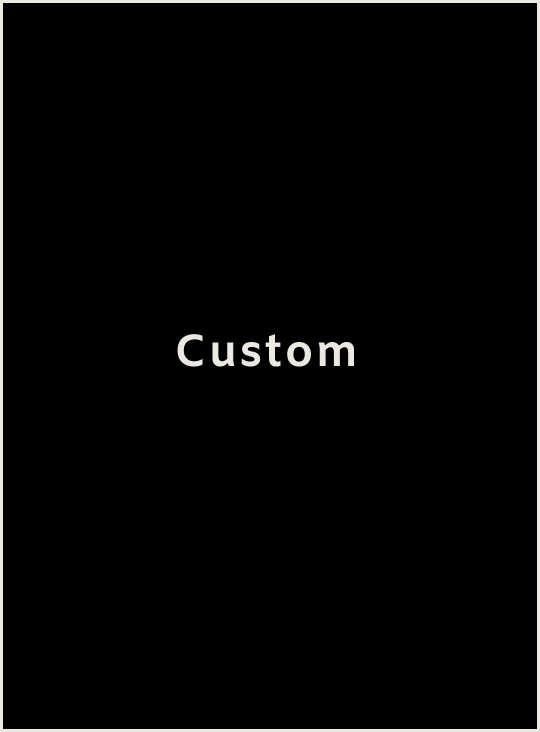
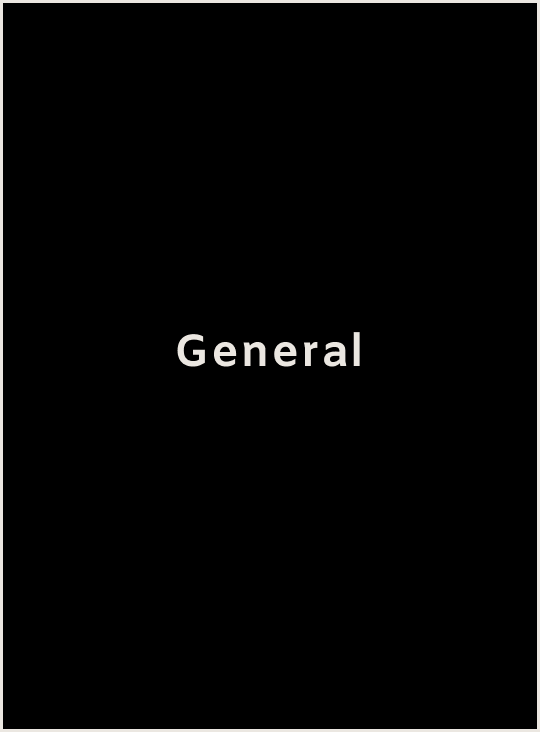
Css updates

Changed region(s): [[0.3556, 0.4508, 0.6815, 0.5109]]

diff --git a/client/src/components/NavBar/index.js b/client/src/components/NavBar/index.js
@@ -1,6 +1,7 @@
 import React, {useState} from 'react';
 import {Link, useNavigate} from 'react-router-dom';
 import dotdaylogo from '../../images/dotdaylogo.png';
+import dotdaydot from '../../images/dotdaydot.png';
 import './index.css';
 
 function NavBar({currentAuthor, setCurrentAuthor, setLogInForm, setErrorMessage}) {
@@ -39,7 +40,8 @@ function NavBar({currentAuthor, setCurrentAuthor, setLogInForm, setErrorMessage}
                     <Link className='navbarlink' to='/themes'>Themes</Link>
                     <img className='navbarlogologgedin' alt='.Day logo' src={dotdaylogo}></img>
                     <span className='navbardropdownspan'>
-                        <button className='navbarlink'>Hello, {currentAuthor.first_name}.</button>
+                        <img className='navbardotdaydot' src={dotdaydot}/>
+                        <button className='navbarnamelink'>Hello, {currentAuthor.first_name}.</button>
                         <div className='navbardropdown'>
                             <div className='dropdowndiv'>
                                 <Link className='dropdownlink' to={`/account`}>Account</Link>

diff --git a/client/src/components/EditEntry/index.js b/client/src/components/EditEntry/index.js
@@ -50,13 +50,13 @@ function EditEntry() {
                                     const answer = entry.answers.find((answer) => answer.question_id === question.id);
                                     return (<div className='entrydraftinputdiv' key={question.id}>
                                         <p className='entrydraftformp'>{question.question}</p>
-                                        <input 
+                                        <textarea 
                                         className='entrydraftinput' 
                                         placeholder={answer.answer}
                                         onChange={(e) => setUpdatedAnswers((updatedAnswers) => {
                                             updatedAnswers[answer.id] = e.target.value;
                                             return updatedAnswers;
-                                        })}></input>
+                                        })}></textarea>
                                     </div>)
                                 })
                             }

diff --git a/client/src/components/EntryDraft/index.js b/client/src/components/EntryDraft/index.js
@@ -45,12 +45,12 @@ function EntryDraft() {
                                 entry.questions.map((question) => {
                                     return (<div className='entrydraftinputdiv' key={question.id}>
                                         <p className='entrydraftformp'>{question.question}</p>
-                                        <input 
+                                        <textarea 
                                         className='entrydraftinput' 
                                         onChange={(e) => setAnswers((answers) => {
                                             answers[question.id] = e.target.value;
                                             return answers;
-                                        })}></input>
+                                        })}></textarea>
                                     </div>)
                                 })
                             }

diff --git a/client/src/components/AuthorAccount/index.js b/client/src/components/AuthorAccount/index.js
@@ -71,7 +71,7 @@ function AuthorAccount({currentAuthor}) {
                         </div>
                         <div className='accountinputdiv'>
                             <p className='accountp'>BIO</p>
-                            <input className='accountinput' value={updatedAccount.bio} onChange={(e) => handleUpdate(e, 'bio')}></input>
+                            <textarea className='accountinput' value={updatedAccount.bio} onChange={(e) => handleUpdate(e, 'bio')}></textarea>
                         </div>
                         <button className='accountbutton'>UPDATE</button>
                         {accountUpdatedNote ? (<p className='accountsavedp'>{accountUpdatedNote}</p>) : null}

diff --git a/client/src/components/NavBar/index.css b/client/src/components/NavBar/index.css
@@ -110,3 +110,34 @@
     color: rgb(139, 135, 124);
 }
 
+.navbardotdaydot {
+    height: 7.5px;
+    width: 7.5px;
+    padding-top: 10px;
+    cursor: pointer;
+}
+
+.navbarnamelink {
+    display: inline-block;
+    padding-top: 20px;
+    padding-right: 20px;
+    padding-bottom: 20px;
+    padding-left: 10px;
+    text-decoration: none;
+    font-size: 12px;
+    border: none;
+    background-color: rgb(235, 231, 225);
+    color: #000;
+    cursor: pointer;
+}
+
+.navbarnamelink:hover {
+    display: inline-block;
+    text-decoration: none;
+    font-size: 12px;
+    border: none;
+    background-color: rgb(235, 231, 225);
+    color: rgb(139, 135, 124);
+    cursor: pointer;
+}
+

diff --git a/client/src/components/AuthorAccount/index.css b/client/src/components/AuthorAccount/index.css
@@ -49,6 +49,7 @@
     background-color: rgb(235, 231, 225);
     border: 1px solid #000;
     color: #000;
+    font-family: Corbert, Arial, Helvetica, sans-serif;
 }
 
 .accountinputdiv {

diff --git a/client/src/components/EntryDraft/index.css b/client/src/components/EntryDraft/index.css
@@ -42,6 +42,7 @@
     border: 1px solid #000;
     font-size: 12px;
     color: #000;
+    font-family: Corbert, Arial, Helvetica, sans-serif;
 }
 
 .entrydraftbutton {

diff --git a/client/src/components/EditEntry/index.css b/client/src/components/EditEntry/index.css
@@ -42,6 +42,7 @@
     border: 1px solid #000;
     font-size: 12px;
     color: #000;
+    font-family: Corbert, Arial, Helvetica, sans-serif;
 }
 
 .editentrybutton {

diff --git a/db/seeds.rb b/db/seeds.rb
@@ -30,6 +30,11 @@ positivity = Theme.create!(
         category: "Positivity"
     })
 
+general = Theme.create!(
+    {
+        category: "General"
+    })
+
 # Sample authors
 madison = Author.create!(
     {
@@ -126,6 +131,13 @@ positivityQuestionThree = Question.create!(
     {
         question: "What are you most looking forward to tomorrow?",
         theme_id: positivity.id
+    }
+)
+
+generalQuestionOne = Question.create!(
+    {
+        question: "Share today's thoughts.",
+        theme_id: general.id
     }
 )
 
